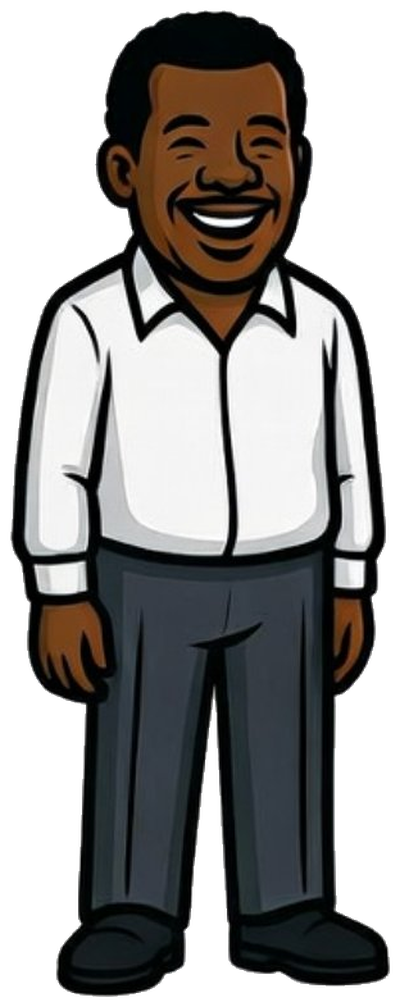
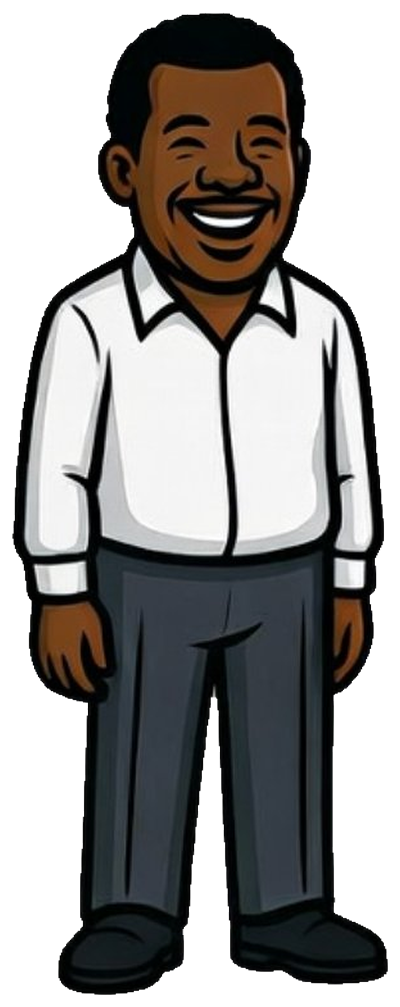
Joey matched to Rich's size; white halo trimmed off his PNG
- Joey now uses Rich's exact box (120x170 desktop, 64x92 mobile) on
  borrower.html and borrower-portal.html; speech bubble repositioned to
  his new head height.
- assets/joey-web.png: alpha eroded 2px, removing the baked-in light
  halo (1,138 semi-transparent fringe pixels -> 0, measured).

diff --git a/borrower-portal.html b/borrower-portal.html
@@ -180,10 +180,10 @@ nav{
    JOEY — BOTTOM-LEFT (same as borrower.html)
    ════════════════════════════════════════════════════════════════════ */
 .joey-wrap{position:fixed;bottom:0;left:24px;z-index:450;pointer-events:none;}
-.joey-figure{position:relative;width:120px;height:240px;cursor:pointer;pointer-events:auto;transition:transform 0.25s;filter:drop-shadow(0 8px 20px rgba(0,0,0,0.15));}
+.joey-figure{position:relative;width:120px;height:170px;cursor:pointer;pointer-events:auto;transition:transform 0.25s;filter:drop-shadow(0 8px 20px rgba(0,0,0,0.15));}
 .joey-figure:hover{transform:translateY(-6px);}
 .joey-figure img{width:100%;height:100%;object-fit:contain;object-position:bottom;display:block;}
-.joey-bubble{position:absolute;bottom:200px;left:100px;background:var(--ink);color:var(--cream);padding:9px 14px;border-radius:18px;font-size:12.5px;white-space:nowrap;pointer-events:auto;cursor:pointer;font-weight:500;box-shadow:0 6px 20px rgba(0,0,0,0.2);border:1px solid var(--gold);animation:joeyBubbleIn 0.5s ease 0.8s both;transition:all 0.2s;}
+.joey-bubble{position:absolute;bottom:150px;left:95px;background:var(--ink);color:var(--cream);padding:9px 14px;border-radius:18px;font-size:12.5px;white-space:nowrap;pointer-events:auto;cursor:pointer;font-weight:500;box-shadow:0 6px 20px rgba(0,0,0,0.2);border:1px solid var(--gold);animation:joeyBubbleIn 0.5s ease 0.8s both;transition:all 0.2s;}
 .joey-bubble:hover{background:var(--ink2);transform:scale(1.04);}
 .joey-bubble::before{content:'';position:absolute;left:-7px;bottom:13px;width:0;height:0;border-top:7px solid transparent;border-bottom:7px solid transparent;border-right:7px solid var(--gold);}
 .joey-bubble::after{content:'';position:absolute;left:-6px;bottom:14px;width:0;height:0;border-top:6px solid transparent;border-bottom:6px solid transparent;border-right:6px solid var(--ink);}
@@ -214,7 +214,7 @@ nav{
 @media(max-width:900px){
   .portal{grid-template-columns:1fr;padding:20px;}
   .sidebar{position:static;}
-  .joey-figure{width:80px;height:160px;}
+  .joey-figure{width:64px;height:92px;}
   .joey-wrap{left:12px;}
   .joey-bubble{display:none;}
   .joey-panel{left:12px;right:12px;width:auto;max-height:70vh;bottom:12px;}

diff --git a/borrower.html b/borrower.html
@@ -444,7 +444,7 @@ footer{background:var(--dark);padding:32px 48px;display:flex;align-items:center;
 }
 .joey-figure{
   position:relative;
-  width:140px;height:280px;
+  width:120px;height:170px; /* matched to Rich (.chat-btn) on the lender page */
   cursor:pointer;
   pointer-events:auto;
   transition:transform 0.25s ease;
@@ -456,7 +456,7 @@ footer{background:var(--dark);padding:32px 48px;display:flex;align-items:center;
 }
 .joey-bubble{
   position:absolute;
-  bottom:230px;left:115px;
+  bottom:150px;left:95px;
   background:var(--ink);
   color:var(--cream);
   padding:10px 16px;
@@ -588,7 +588,7 @@ footer{background:var(--dark);padding:32px 48px;display:flex;align-items:center;
   .disclosures{padding:40px 20px;}
   footer{padding:24px 20px;}
   /* Joey on mobile - much smaller so he never covers content */
-  .joey-figure{width:60px;height:120px;}
+  .joey-figure{width:64px;height:92px;}
   .joey-wrap{left:8px;}
   .joey-bubble{display:none;}
   .joey-panel{left:12px;right:12px;width:auto;max-height:70vh;bottom:12px;}
